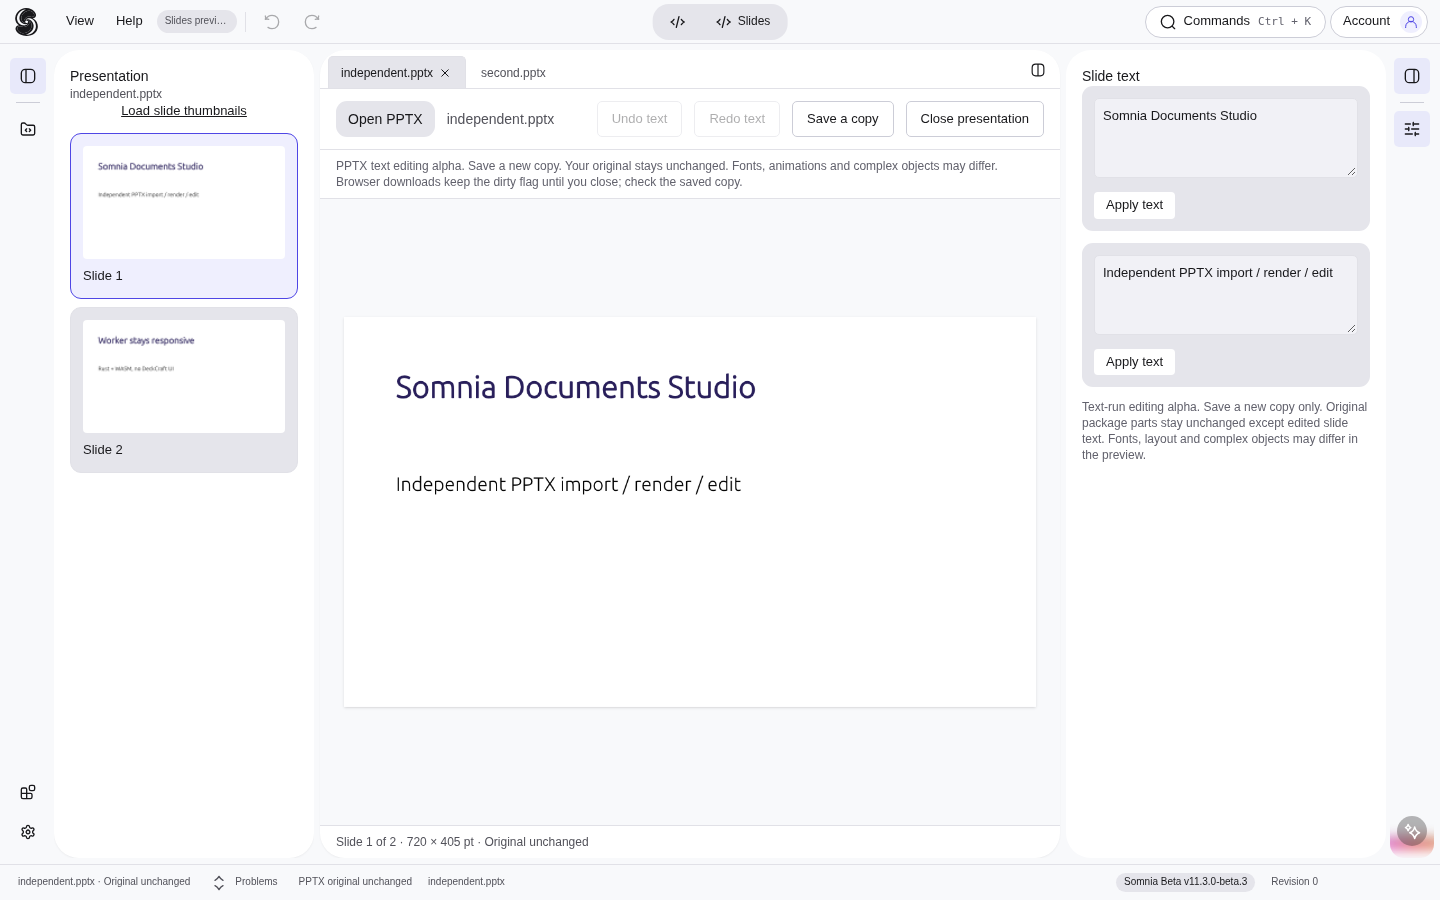
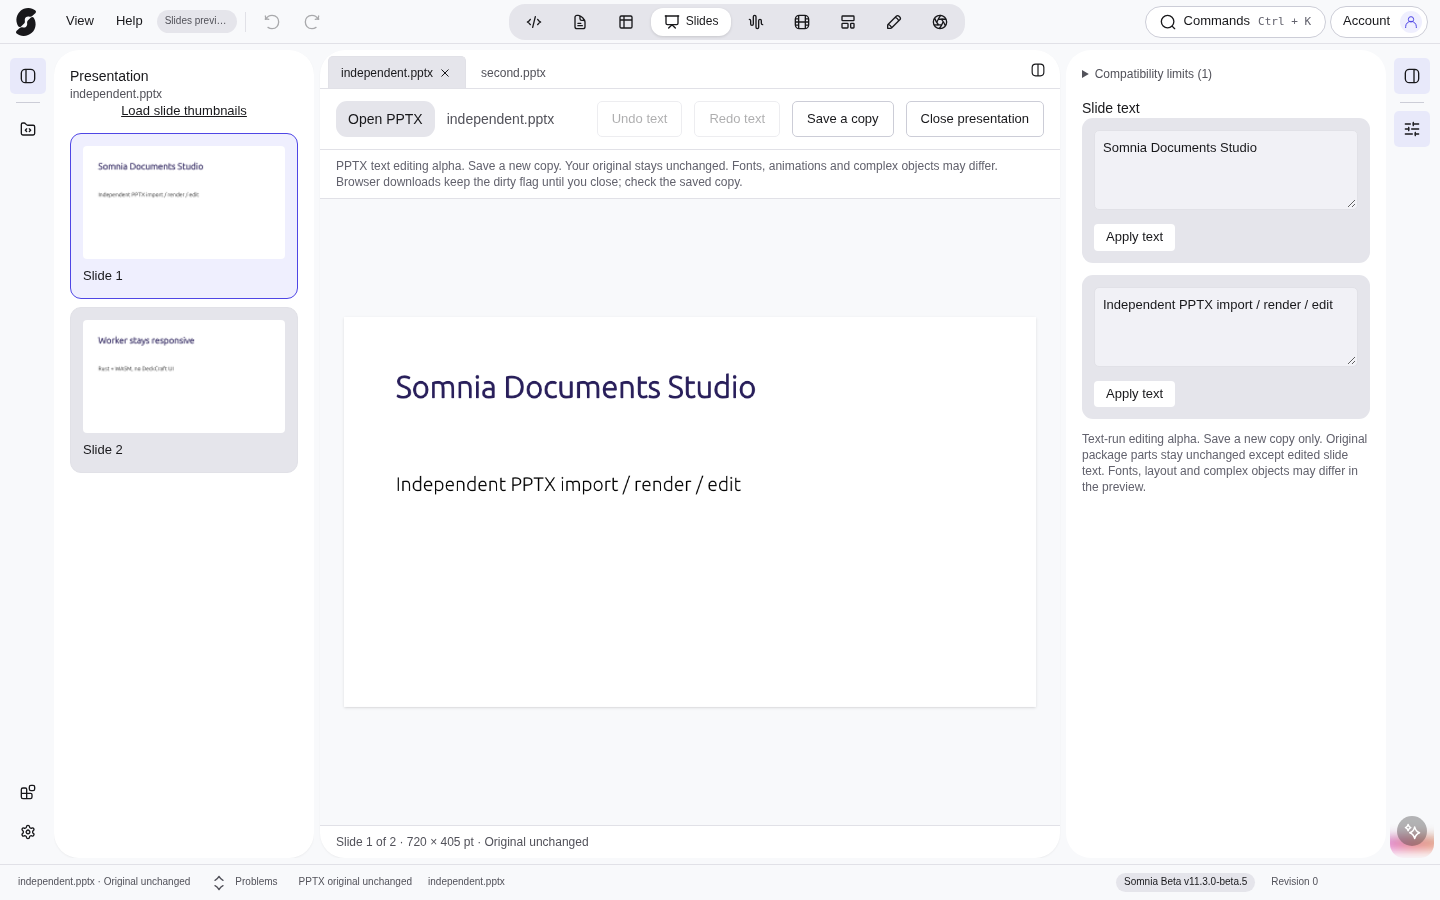
fix(studios): unique pill order (Code, Docs, Sheets, Slides, Sound, Video, Design, Vector, Photos); align specs with starters, shortcuts and download paths

diff --git a/phase1/tests/design-studio.spec.ts b/phase1/tests/design-studio.spec.ts
@@ -4,9 +4,9 @@ test('design blank / editable layers / undo / native reopen / SVG export / drag 
  await page.getByTestId('design-add-text').click();await page.getByTestId('design-field-text').fill('Grüße 世界\nMade in Somnia');await page.getByTestId('design-field-text').blur();await page.getByTestId('design-field-x').fill('100');await page.getByTestId('design-field-x').press('Enter');
  await page.screenshot({path:'test-results/design-layout-dark.png',fullPage:true});
  await page.getByTestId('design-undo').click();await expect(page.getByTestId('design-inspector-empty')).toBeVisible();await page.getByTestId('design-redo').click();
- const download=page.waitForEvent('download');await page.getByTestId('design-export-project').click();const project=await download;await project.saveAs('/downloads/design-test.somdesign');
- page.on('dialog',dialog=>dialog.accept());await page.getByTestId('design-import-input').setInputFiles('/downloads/design-test.somdesign');await expect(page.getByTestId('design-layer-name').filter({hasText:'Card'})).toBeVisible();
- const svgDownload=page.waitForEvent('download');await page.getByTestId('design-export-svg').click();const svg=await svgDownload;await svg.saveAs('/downloads/design-test.svg');
+ const download=page.waitForEvent('download');await page.getByTestId('design-export-project').click();const project=await download;await project.saveAs('test-results/design-test.somdesign');
+ page.on('dialog',dialog=>dialog.accept());await page.getByTestId('design-import-input').setInputFiles('test-results/design-test.somdesign');await expect(page.getByTestId('design-layer-name').filter({hasText:'Card'})).toBeVisible();
+ const svgDownload=page.waitForEvent('download');await page.getByTestId('design-export-svg').click();const svg=await svgDownload;await svg.saveAs('test-results/design-test.svg');
  await page.getByTestId('design-layer-name').filter({hasText:'Text'}).click();const layer=page.getByTestId('design-artboard').getByRole('button',{name:'Text',exact:true});const bounds=await layer.boundingBox();if(!bounds)throw Error('No layer');await page.mouse.move(bounds.x+20,bounds.y+20);await page.mouse.down();await page.mouse.move(bounds.x+85,bounds.y+52);await page.mouse.up();await expect(page.getByTestId('design-field-x')).toHaveValue('200');
  await page.getByTestId('design-field-opacity').fill('40');await page.getByTestId('design-field-opacity').press('Enter');await expect(layer).toHaveCSS('opacity','0.4');
  await page.getByTestId('design-field-width').fill('nonsense');await page.getByTestId('design-field-width').press('Enter');await expect(page.getByTestId('design-field-width-error')).toBeVisible();await page.getByTestId('design-field-width').press('Escape');

diff --git a/phase1/tests/slides-studio.spec.ts b/phase1/tests/slides-studio.spec.ts
@@ -18,7 +18,7 @@ test('Slides Studio opens independent PPTX in real worker, navigates, rejects ba
  await page.getByLabel('Open PPTX',{exact:true}).setInputFiles({name:'invalid.pptx',mimeType:'application/vnd.openxmlformats-officedocument.presentationml.presentation',buffer:Buffer.from('bad zip')});
  await expect(page.getByRole('alert')).toContainText('not a valid PPTX');
  await page.getByRole('button',{name:'Close presentation'}).click();
- await expect(page.getByText('Open a presentation',{exact:true})).toBeVisible();
+ await expect(page.getByTestId('slides-start')).toBeVisible();
  expect(errors).toEqual([]);
 });
 test('switching studios retains preview without changing the source document',async({page})=>{
@@ -92,5 +92,5 @@ test('edit text undo redo and save copy retains original',async({page})=>{
 test('dirty deck close requires explicit discard and can be cancelled',async({page})=>{
  await page.goto('/');await page.getByRole('radio',{name:'Slides',exact:true}).click();await page.getByLabel('Open PPTX',{exact:true}).setInputFiles(path.resolve('slides-engine/fixtures/independent.pptx'));await expect(page.getByRole('region',{name:'Slide preview'})).toHaveAttribute('aria-busy','false');await page.getByRole('textbox',{name:'Text run 1',exact:true}).fill('Unsaved title');await page.getByRole('button',{name:'Apply text',exact:true}).first().click();await expect(page.getByRole('region',{name:'Slide preview'})).toHaveAttribute('aria-busy','false');
  page.once('dialog',d=>d.dismiss());await page.getByRole('button',{name:'Close presentation',exact:true}).click();await expect(page.getByRole('textbox',{name:'Text run 1',exact:true})).toHaveValue('Unsaved title');
- page.once('dialog',d=>d.accept());await page.getByRole('button',{name:'Close presentation',exact:true}).click();await expect(page.getByText('Open a presentation',{exact:true})).toBeVisible();
+ page.once('dialog',d=>d.accept());await page.getByRole('button',{name:'Close presentation',exact:true}).click();await expect(page.getByTestId('slides-start')).toBeVisible();
 });

diff --git a/phase1/tests/folder-drop.spec.ts b/phase1/tests/folder-drop.spec.ts
@@ -30,7 +30,7 @@ test('unreadable candidate and forged token preserve the current disk project',a
  await page.evaluate(()=>{(window as any).dropMode='denied';(window as any).fireDrop('forged');});await expect(page.getByRole('status')).toContainText('forged');await expect(page.getByText('Dropped site',{exact:true})).toBeVisible();
 });
 test('multiple native files import copies; a mixed folder/file selection is refused',async({page})=>{
- await native(page);await page.evaluate(()=>(window as any).fireDrop('files',2));await expect(page.getByRole('status')).toContainText('Opened one.txt, two.txt');await expect(page.locator('[data-storage]')).toHaveAttribute('data-storage','memory');
+ await native(page);await page.evaluate(()=>(window as any).fireDrop('files',2));await expect(page.getByRole('status')).toContainText('Opened 2 files');await expect(page.locator('[data-storage]')).toHaveAttribute('data-storage','memory');
  await page.evaluate(()=>{(window as any).dropMode='mixed';(window as any).fireDrop('mixed',2);});await expect(page.getByRole('status')).toContainText('Drop one folder alone');
 });
 test('single native file uses the in-place project command',async({page})=>{await native(page);await page.evaluate(()=>(window as any).fireDrop('file'));await expect(page.getByText('single.html',{exact:true})).toBeVisible();await expect(page.locator('[data-storage]')).toHaveAttribute('data-storage','disk');});

diff --git a/phase1/tests/provider-errors.spec.ts b/phase1/tests/provider-errors.spec.ts
@@ -6,7 +6,7 @@ async function configure(page:import('@playwright/test').Page){
  const panel=page.getByRole('complementary',{name:'Somnia Agent'});
  await panel.getByRole('button',{name:'Agent configuration',exact:true}).click();
  const S=page.getByRole('dialog');await S.getByLabel('Model',{exact:true}).fill('fixture-local');
- await S.getByRole('button',{name:'Save AI settings',exact:true}).click();await S.getByText('Configuration saved.',{exact:true}).waitFor();await S.getByRole('button',{name:'Close settings',exact:true}).click();await panel.getByRole('checkbox',{name:/Allow inspecting the active Code(\/Photo)? document/}).check();return panel;
+ await S.getByRole('button',{name:'Save AI settings',exact:true}).click();await S.getByText('Configuration saved.',{exact:true}).waitFor();await S.getByRole('button',{name:'Close settings',exact:true}).click();await panel.getByRole('checkbox',{name:/Allow inspecting the active (Code(\/Photo)?|studio) document/}).check();return panel;
 }
 test('partial provider failure remains visible and retry uses the retained prompt',async({page})=>{
  let calls=0;const prompts:string[]=[];

diff --git a/phase1/tests/photos-studio.spec.ts b/phase1/tests/photos-studio.spec.ts
@@ -87,7 +87,7 @@ test('Photos Studio: switching to Code keeps the photo session intact',async({pa
  await page.getByRole('radio',{name:'Somnia Code'}).click();
  // an image tab outside the Photos studio keeps the existing raster editor
  await expect(page.getByRole('region',{name:'Image editing viewport'})).toBeVisible();
- await page.keyboard.press('Control+7');
+ await page.keyboard.press('Control+9');
  await expect(page.getByTestId('photos-workspace')).toBeVisible();
  await expect(page.getByTestId('photos-value-exposure')).toContainText('1');
 });
@@ -96,7 +96,7 @@ for(const locale of ['de','es','fr','pt-BR'])test(`Photos Studio strings: ${loca
  const pill=page.locator('header [role="radiogroup"]');
  await expect(pill.getByRole('radio')).toHaveCount(9);
  await expect(pill).not.toContainText('studio.photos');
- await pill.getByRole('radio').nth(6).click();
+ await pill.getByRole('radio').nth(8).click();
  await expect(page.getByTestId('photos-start')).toBeVisible();
  await expect(page.getByTestId('photos-start')).not.toContainText('photos.');
 });

diff --git a/phase1/src/lib/studios/design.ts b/phase1/src/lib/studios/design.ts
@@ -3,7 +3,7 @@ import {startDesign} from '../design/session';
 import {registerStudio,type StudioDef} from './registry';
 /** Layout/design workspace, deliberately separate from SVG/Vector editing. */
 export const designStudio:StudioDef={
- id:'design',label:'Design',icon:'LayoutTemplate',order:50,formats:[{ext:'somdesign',priority:100}],
+ id:'design',label:'Design',icon:'LayoutTemplate',order:6,formats:[{ext:'somdesign',priority:100}],
  shell:{leftRail:[{id:'files',label:'Files',icon:'Files',global:true}],rightRail:[{id:'design',label:'Artboard and layers',icon:'SlidersHorizontal'}],header:{menus:['Project','Edit','View','Tools','Help'],views:[]},bottomBar:{slots:[],viewportPresets:[]},inspector:'design.inspector',tools:[]},
  commands:[],shortcuts:{},menus:{view:[]},canvas:'design.canvas',
  agent:{tools:[],contextProviders:[],quickActions:[]},deriveContext:context=>context

diff --git a/phase1/src/lib/studios/slides.ts b/phase1/src/lib/studios/slides.ts
@@ -1,6 +1,6 @@
 import {registerStudio,type StudioDef} from './registry';
 export const slidesStudio:StudioDef={
- id:'slides',label:'Slides',icon:'Presentation',order:4,formats:[{ext:'pptx',priority:100}],
+ id:'slides',label:'Slides',icon:'Presentation',order:3,formats:[{ext:'pptx',priority:100}],
  shell:{leftRail:[{id:'files',label:'Slides',icon:'Files'}],rightRail:[{id:'design',label:'Slide text',icon:'SlidersHorizontal'}],header:{menus:['View','Help'],views:[]},sidebar:'slides.sidebar',bottomBar:{slots:[],viewportPresets:[]},inspector:'slides.inspector',tools:[]},
  commands:[],shortcuts:{},menus:{view:[]},canvas:'slides.canvas',agent:{tools:['deck_inspect','deck_propose_changes'],contextProviders:[],quickActions:[]},deriveContext:context=>context
 };

diff --git a/phase1/src/lib/studios/sheets.ts b/phase1/src/lib/studios/sheets.ts
@@ -1,7 +1,7 @@
 import {registerStudio,type StudioDef} from './registry';
 /** Sheets Studio: XLSX workbooks in an isolated spreadsheet engine (WASM worker). Document buffers stay outside the shell. */
 export const sheetsStudio:StudioDef={
- id:'sheets',label:'studio.sheets',icon:'Table2',order:40,
+ id:'sheets',label:'studio.sheets',icon:'Table2',order:2,
  formats:[{ext:'xlsx',mime:'application/vnd.openxmlformats-officedocument.spreadsheetml.sheet',priority:10}],
  shell:{
   leftRail:[{id:'files',label:'Files',icon:'Files',global:true},{id:'search',label:'Search',icon:'Search',global:true},{id:'versions',label:'Versions',icon:'VersionsIcon',global:true}],

diff --git a/phase1/src/lib/studios/photos.ts b/phase1/src/lib/studios/photos.ts
@@ -5,7 +5,7 @@ import {registerStudio,type StudioDef} from './registry';
  * honestly that develop does not cover it yet (the Code studio keeps the read-only PSD preview).
  */
 export const photosStudio:StudioDef={
- id:'photos',label:'studio.photos',icon:'Aperture',order:70,
+ id:'photos',label:'studio.photos',icon:'Aperture',order:8,
  formats:[...['jpg','jpeg','png'].map(ext=>({ext,mime:ext==='png'?'image/png':'image/jpeg',priority:50})),{ext:'psd',mime:'image/vnd.adobe.photoshop',priority:50}],
  shell:{
   leftRail:[{id:'files',label:'Files',icon:'Files',global:true}],

diff --git a/phase1/src/lib/studios/sound.ts b/phase1/src/lib/studios/sound.ts
@@ -1,7 +1,7 @@
 import {registerStudio,type StudioDef} from './registry';
 /** Sound Studio: SoundCraft decode and offline DSP in a WASM worker. Documents are media tabs; the Code studio is untouched. */
 export const soundStudio:StudioDef={
- id:'sound',label:'studio.sound',icon:'AudioWaveform',order:50,
+ id:'sound',label:'studio.sound',icon:'AudioWaveform',order:4,
  formats:['mp3','wav','flac','ogg','oga','aif','aiff'].map(ext=>({ext,priority:10})),
  shell:{
   leftRail:[{id:'files',label:'Files',icon:'Files',global:true}],

diff --git a/phase1/tests/studio-pill-chrome.spec.ts b/phase1/tests/studio-pill-chrome.spec.ts
@@ -48,7 +48,7 @@ test('keyboard focus exposes short names and keeps roving studio selection',asyn
  await expect(page.getByRole('tooltip')).toHaveCount(0);
  await expect(docs).toBeFocused();
  await page.keyboard.press('End');
- await expect(pill.getByRole('radio',{name:'Somnia Video',exact:true})).toBeFocused();
+ await expect(pill.getByRole('radio',{name:'Somnia Photos',exact:true})).toBeFocused();
  await page.keyboard.press('Home');
  await expect(pill.getByRole('radio',{name:'Somnia Code',exact:true})).toBeFocused();
 });

diff --git a/phase1/src/lib/studios/video.ts b/phase1/src/lib/studios/video.ts
@@ -1,7 +1,7 @@
 import {registerStudio,type StudioDef} from './registry';
 /** Video Studio: mediabunny demux/mux and WebCodecs encode in a worker. Documents are media tabs; the Code studio is untouched. */
 export const videoStudio:StudioDef={
- id:'video',label:'studio.video',icon:'Film',order:60,
+ id:'video',label:'studio.video',icon:'Film',order:5,
  formats:['mp4','m4v','mov','webm','mkv'].map(ext=>({ext,priority:10})),
  shell:{
   leftRail:[{id:'files',label:'Files',icon:'Files',global:true}],
